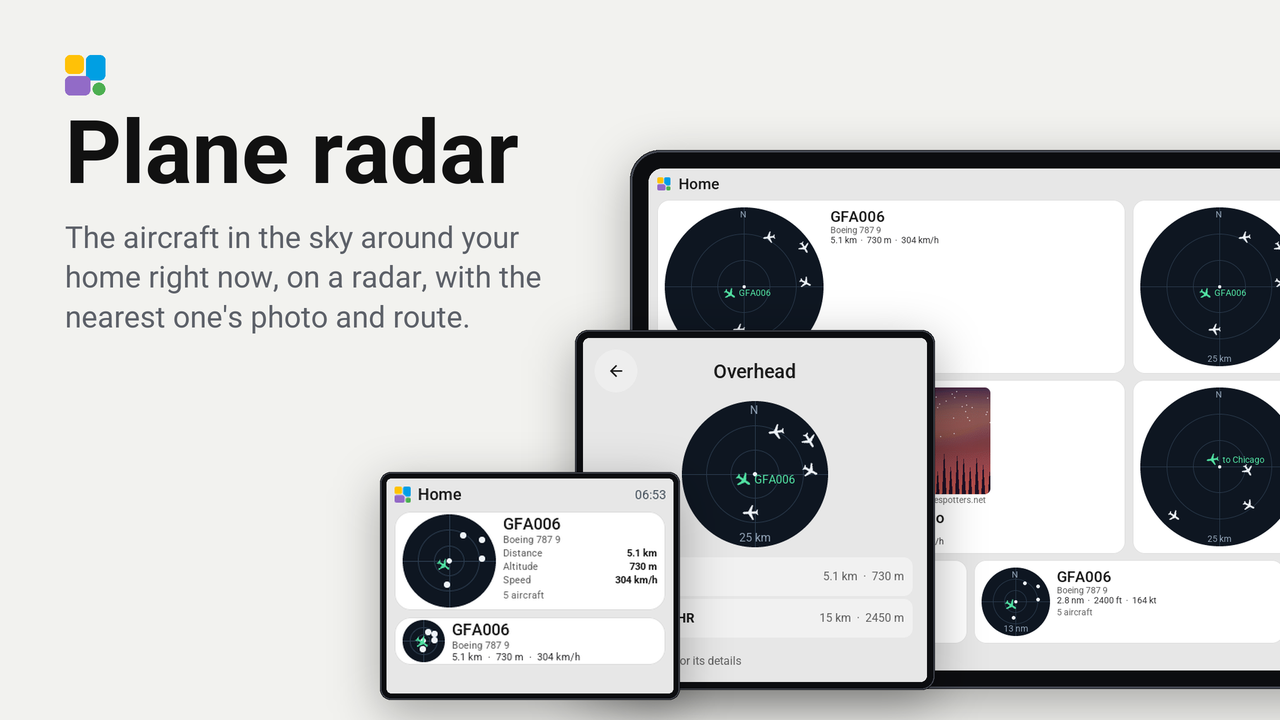
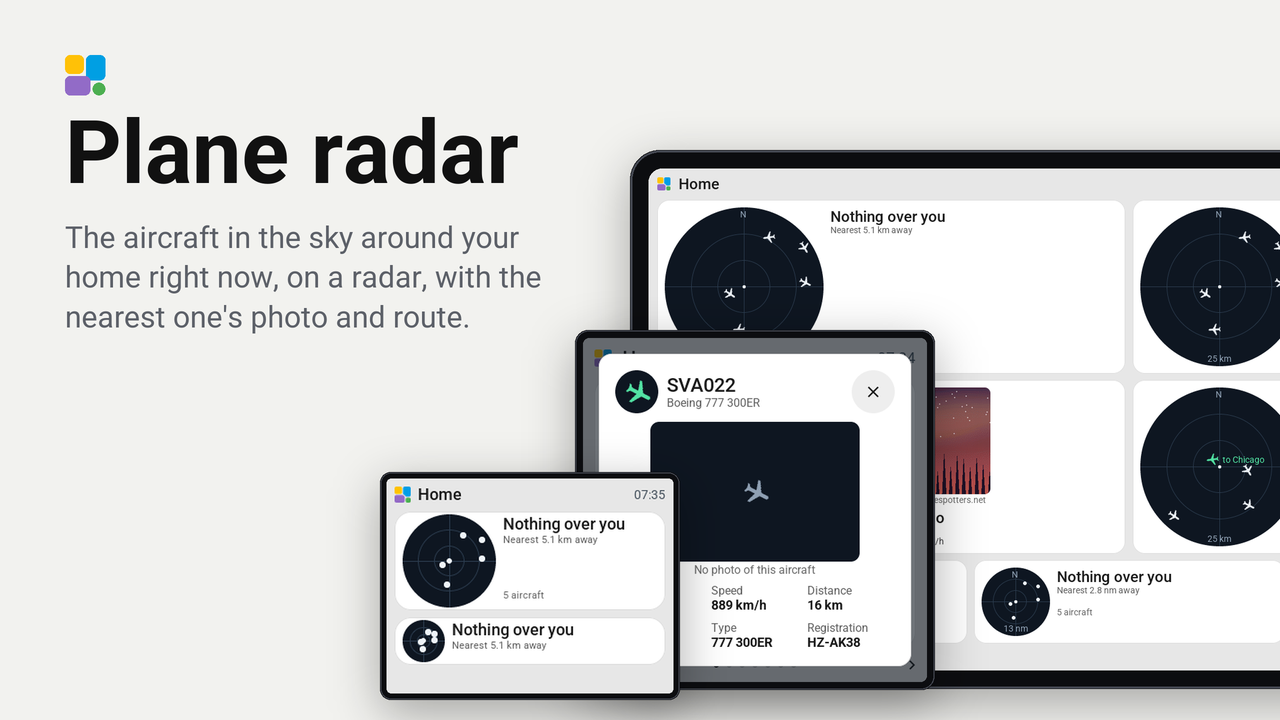
What only showed on real glass, for every plugin maker: one tap does one thing (a tile whose parts look like keys reads tap_point() and opens the card only for a tap elsewhere), a tile's data and its chosen entities share one message of about 2.6 KB, preview.yaml holds real successful answers (a rec

diff --git a/AGENTS.md b/AGENTS.md
@@ -140,6 +140,24 @@ pictures, every board), [`plugins/vinyl_deck/`](plugins/vinyl_deck) (a face of t
     small and still them when their moment is over.
   - **It lights the screen**: show one because a person did something, or behind a setting of the plugin's own, on by
     default only when a person asked for what it shows (the voice assistant's Show popup).
+- **A tile on real glass** keeps what only showed when someone used one at home:
+  - **One tap, one thing.** Every tap on a tile goes to `on_tap`, and a tile usually opens its card there. When the tile
+    draws parts a person will take for keys (a row, a marker, an item, a photo), read `tessera::tap_point()`, open what
+    is under the finger, and open the card only for a tap anywhere else. A tap never opens two things.
+  - **The data and the chosen entities share one message** of about 2.6 KB: map only the fields you draw, and keep a
+    fetch's `limit` to what the largest tile shows. The app gives an entity a person chose (a place, a sensor) up to half
+    of it, and drops a list's last items first.
+  - **`preview.yaml` holds real, successful answers.** Read them before you commit: a recorded error (a refused
+    User-Agent, a missing key, a rate limit) means the service refuses the app too, and the bench then shows a
+    stand-in. Run the bench once with `--live`.
+  - **Bench the shapes people use**: the smallest and the largest size, and the whole page (`sizes: [full]` in
+    `preview.yaml`) when the tile takes it, with an answer as long as the fetch's `limit`.
+  - **Keep your own coordinates.** LVGL reads a position as 0 until it lays out: a part you move later is moved from
+    the number you gave it, kept in a member, never from `lv_obj_get_y`.
+  - **A choice by a threshold keeps a margin** (the nearest within 3 km, kept to 3.5 once shown), or it flips every
+    tick when a value sits at the edge.
+  - **Only the screen's characters.** The fonts hold letters, digits, common signs and Tessera's icons; an arrow or
+    another symbol shows as a square. Say it in words of the screen's language.
 - **Memory inside the chip is scarce** (since API 0.10): keep texts and lists a tile holds as `tessera::Text` and
   `tessera::List`, which take PSRAM; a `std::string` member stays in the memory Wi-Fi needs (docs/FIRMWARE_API.md,
   "Memory").

diff --git a/docs/MAKING_A_PLUGIN.md b/docs/MAKING_A_PLUGIN.md
@@ -420,5 +420,10 @@ came along is offered to go as well.
 | The screensaver shows Tessera's own face, not yours | The screen was not built with the plugin, the saver's id differs from `add_saver("...")`, or its step differs from the manifest's. | Build again; make the ids and the step match (the bench says so in its findings). |
 | The screen wakes when a key of the screensaver is tapped | The key was not made with `ui::takes_taps`, or not in a call of the saver. | Call `ui::takes_taps(key)` in `show()`, and say `taps: true` in the manifest. |
 | A key of the screensaver shows the old value for a moment, or flips back | The key was painted from the tap, or the action went out without `wish()`. | Call `tessera::wish()` and paint the key from `on_state` alone. |
+| A tap on a row, a marker or an item opens the card, or the card and that item | `on_tap` opens the card for every tap on the tile. | Read `tessera::tap_point()`, open what is under the finger, the card only for a tap elsewhere ([FIRMWARE_API.md](FIRMWARE_API.md), "A tile: `tessera::Tile`"). |
+| The tile says nothing is chosen while the fetch works, or a chosen entity is `{"wait": "too_large"}` | The tile's data and the entities its options chose share one message of about 2.6 KB. | Map fewer fields, lower the fetch's `limit`; the app since plugin API 0.27 gives a chosen entity up to half of it. Bench with an answer as long as the `limit`. |
+| The bench shows data, the screen shows none (no photos, no route) | `preview.yaml` holds a recorded error or a stand-in, so the bench never saw the service refuse. | Read the recorded answers; run the bench with `--live` once. |
+| A part jumps to the top left when the tile moves it | `lv_obj_get_x`/`_y` read 0 before LVGL lays out. | Keep the coordinates you set in members and move from those. |
+| Something comes and goes every second | A choice by a threshold without a margin, with a value at the edge. | Keep what is shown until it is a little beyond the threshold. |
 | Text cut with dots | The label is wider than its room. | Take a smaller font from `tessera::Font`, or give the label more width. |
 | Squares instead of letters or icons | A character or icon the screen's fonts do not have. | Use plain text, and icons from Tessera's set only. |

diff --git a/docs/FIRMWARE_API.md b/docs/FIRMWARE_API.md
@@ -121,7 +121,9 @@ class NextTile : public tessera::Tile {
 5. **`on_tap()`**: a short tap on the card, after the touch filter (a finger that moved or was too short never reaches
    it). The tile's `tap` option set to "none" in the editor keeps taps away. `tessera::tap_point()` (0.10) says where
    the finger was, in the tile's own pixels (`0,0` the top left of `context.parent`), so a list knows which row, a
-   row of posters which film; `-1,-1` when the screen could not say.
+   row of posters which film; `-1,-1` when the screen could not say. A tile whose parts look like keys answers a tap
+   on them itself (a marker opens its popup, a row its item) and opens the card only for a tap elsewhere: one tap
+   does one thing.
 6. **Destructor**: the card shows something else. The core deletes the LVGL objects; free only memory of your own.
 
 A change of the tile's size or options makes a new object: `create()` never has to handle a resize.

diff --git a/docs/PREVIEW.md b/docs/PREVIEW.md
@@ -164,7 +164,7 @@ tiles:                         # the tiles to show; each at every size it offers
   - tile: next                 # a tile id of the manifest
     name: Centraal Station     # the name a person gives it (default: the tile's name)
     options: { stop: "30005002", walk: 3 }   # its options, as the inspector sets them
-    sizes: [1x1, 3x2]          # optional
+    sizes: [1x1, 3x2]          # optional; `full` is the whole page, which many people give one large tile
   - tile: next
     name: No departures
     options: { stop: "30005002" }
